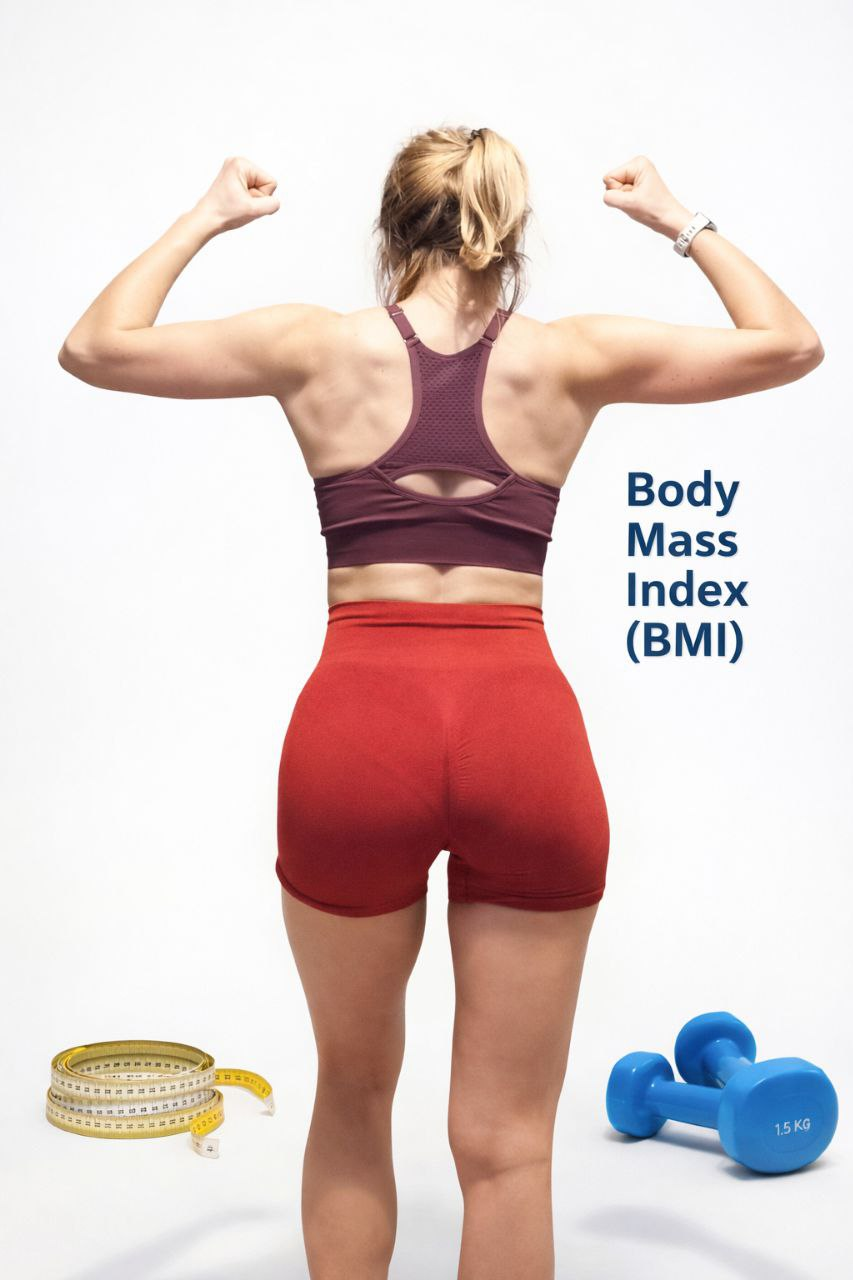
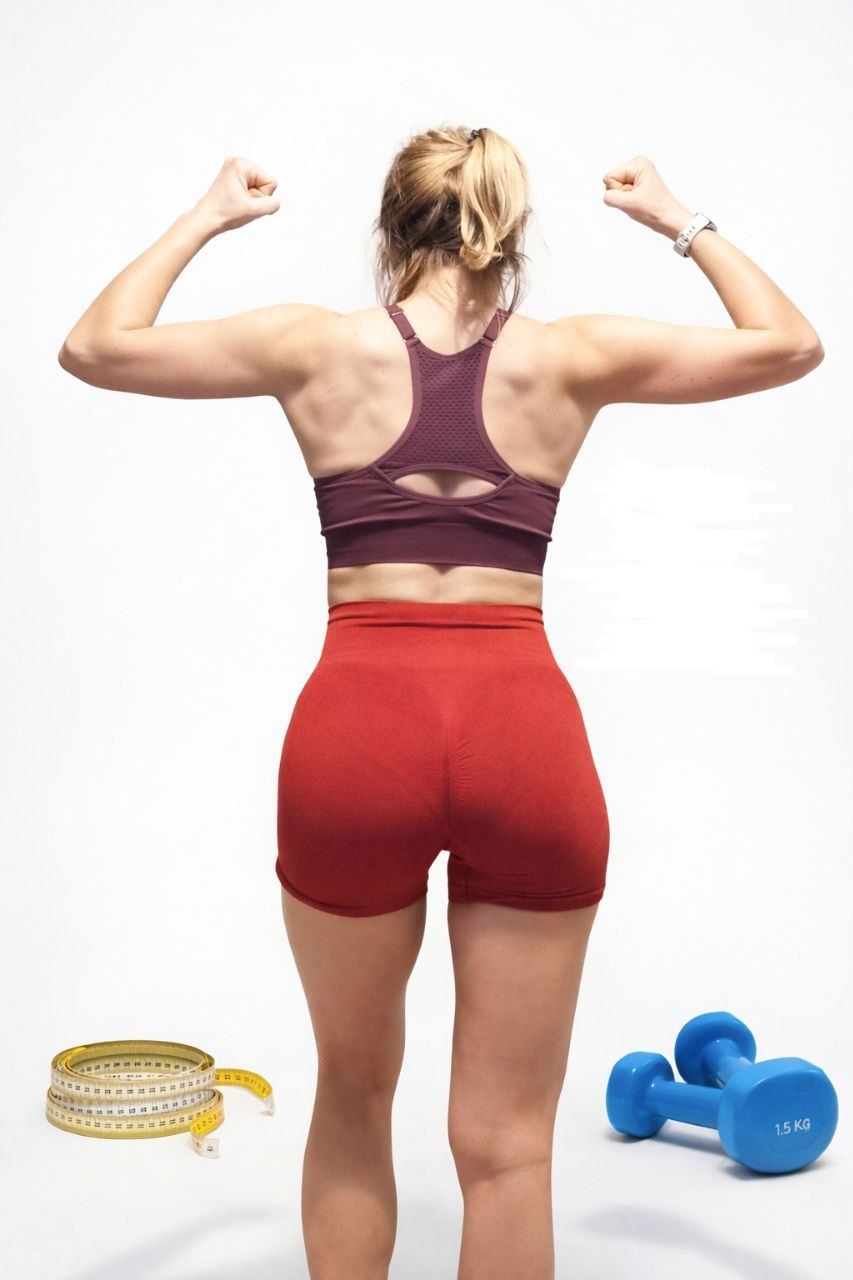
add main page draft

Changed region(s): [[0.7315, 0.3438, 0.8839, 0.5312]]

diff --git a/index.html b/index.html
@@ -4,48 +4,78 @@
     <meta charset="UTF-8" />
     <link rel="icon" type="image/svg+xml" href="/vite.svg" />
     <meta name="viewport" content="width=device-width, initial-scale=1.0" />
-    <title>my-vite-project</title>
+    <title>BodyMassIndex</title>
   </head>
   <body>
     <section class="hero">
       <div class="description-container">
-        <h1 class="title">BMI (Body Mass Index)</h1>
+      <h1 class="title">BMI (Body Mass Index)</h1>
         <div class="text-table">
           <p class="paragraph">
-            Body Mass Index (BMI) is an indicator that helps assess whether a
-            person’s weight corresponds to their height. It is used to determine
-            underweight, normal weight, or excess body weight in adults.
+           Body Mass Index (BMI) is a simple indicator that helps determine whether a person’s weight is appropriate for their height. It is often used as a first step in assessing overall body condition and potential health risks. 
           </p>
-          <div class="table-container">
-            <table class="table">
-              <thead>
-                <tr>
-                  <th>BMI</th>
-                  <th>Категория</th>
-                </tr>
-              </thead>
-              <tbody>
-                <tr class="red-row">
-                  <td>Меньше 18.5</td>
-                  <td>Недостаток веса</td>
-                </tr>
-                <tr class="green-row">
-                  <td>18.5 - 24.9</td>
-                  <td>Норма</td>
-                </tr>
-                <tr class="orange-row">
-                  <td>30 и больше</td>
-                  <td>Ожирение</td>
-                </tr>
-              </tbody>
-            </table>
-          </div>
+          <p class="paragraph">Calculating BMI takes only a few seconds, but it can indicate whether a person is underweight, within a normal range, or overweight.</p>
+          <p class="paragraph">An interesting fact is that BMI was developed in the 19th century and is still widely used today. However, it does not take muscle mass or fat distribution into account, so it is not a perfect measure. BMI is best viewed as a starting point and should be considered alongside lifestyle, physical activity, and overall well-being.</p>
         </div>
+        <div class="table-container">
+          <table class="table">
+            <thead>
+              <tr>
+                <th>BMI</th>
+                <th>Category</th>
+              </tr>
+            </thead>
+            <tbody>
+              <tr class="red-row">
+                <td>&lt 18.5</td>
+                <td>Underweight</td>
+              </tr>
+              <tr class="green-row">
+                <td>18.5 - 24.9</td>
+                <td>Norm</td>
+              </tr>
+              <tr class="orange-row">
+                <td>30 &gt</td>
+                <td>Obesity</td>
+              </tr>
+            </tbody>
+          </table>
+        </div>
+   </div>
         <div class="img-cont">
           <img src="./src/img/image.jpg" />
         </div>
       </div>
     </section>
+    <section class="calculator">
+      <form class="form-calculator">
+        <div class="form-field">
+          <label for="height" class="form-label">Height</label>
+          <div class="form-wrapper">
+            <input type="tel" class="form-input" id="user-height" name="user-height" placeholder="Enter your height in sm">
+          </div>
+        </div>
+
+        <div class="form-field">
+          <label for="weight" class="form-label">Weight</label>
+          <div class="form-wrapper">
+            <input type="tel" class="form-input" id="user-weight" name="user-weight" placeholder="Enter your weight in kg">
+          </div>
+        </div>
+        <button class="btn-calculator" type="submit">Calculation</button>
+      </form>
+    </section>
+    <!-- modal -->
+    <div class="modal-overlay hidden">
+  <div class="modal">
+    <button class="modal-close">×</button>
+
+    <h3 class="modal-title">Your result</h3>
+    <p class="modal-bmi"></p>
+    <p class="modal-text"></p>
+  </div>
+</div>
+
     <script type="module" src="/src/main.js"></script>
     <script type="module" src="./src/js/1-page.js"></script>
   </body>

diff --git a/src/style.css b/src/style.css
@@ -33,8 +33,13 @@ h1 {
 
 
 html{
-  background-color: rgb(252, 238, 222);
-}
+  /* background-color: rgb(252, 238, 222); */
+  background-image: linear-gradient(rgb(252, 238, 222), rgba(216, 217, 240, 0.7)),
+      url(../src/img/background.png);
+  background-position: center;
+  background-size:cover;
+    }
+
 
 .card {
   padding: 2em;
@@ -83,17 +88,14 @@ table {
 th,
 td {
   padding: 12px 16px;
+  /* text-align: center; */
 }
 thead th{
-  background-color: #f3f4f6;
+  background-color:#dbd7d0;
   font-weight: 600;
 }
 tbody tr {
   border-bottom: 1px solid #e5e7eb;
-}
-
-tbody tr:hover{
-  background-color: #f9fafb;
 }
 tbody tr.active{
   background-color: #e0f2fe;;
@@ -102,13 +104,22 @@ tbody tr.active{
   background-color: rgba(211, 52, 52, 0.459);
   font-weight: 600;
 }
+.red-row:hover{
+  background-color: rgba(211, 52, 52, 0.788)
+}
 .green-row{
   background-color: rgba(9, 143, 20, 0.541);
   font-weight: 600;
 }
+.green-row:hover{
+background-color: rgba(9, 143, 20, 0.781);
+}
 .orange-row{
   background-color: rgba(161, 48, 7, 0.644);
   font-weight: 600;
+}
+.orange-row:hover{
+  background-color: rgba(161, 48, 7, 0.842)
 }
 .table-container{
   display: flex;
@@ -159,12 +170,17 @@ tbody tr.active{
 
   .img-cont::before {
     background: radial-gradient(ellipse at center,
-       rgba(153, 151, 134, 0.829),
+      rgb(242 236 190 / 83%),
        transparent 100%);
       }
       
       .paragraph{
+  text-indent: 2em;
   font-size: 18px;
+  margin: 0;
+ }
+ .paragraph:last-child{
+margin-bottom: 76px;
  }
 
  .text-table{
@@ -177,11 +193,97 @@ img{
   margin-top: -20px;
 }
 
-/* .hero{
+.hero{
   display: flex;
   align-items: center;
-  gap:40px;
-} */
+  gap:80px;
+  margin-bottom: 80px;
+  justify-content: space-around;
+}
 .title{
-margin: 0 0 20px;
+margin: 0 0 40px;
+color:#614e4e;
+}
+
+
+
+               /* calculator */
+.calculator{
+  display: flex;
+  justify-content: center;
+}
+.form-calculator{
+border: 3px solid rgba(153, 151, 134, 0.829);
+border-radius: 8px;
+width: 408px;
+padding: 24px;
+}
+.form-input{
+  display: block;
+  background-color: transparent;
+  width: 100%;
+  height: 30px;
+  border-radius: 4px;
+  outline:transparent;
+  border: 1px solid rgba(46, 47, 66, 0.4);
+}
+.form-field{
+  margin-bottom: 8px;
+}
+.form-label{
+  margin-bottom: 4px;
+}
+.btn-calculator{
+  border-radius: 4px;
+  background-color: rgba(153, 151, 134, 0.829);
+}
+
+/* modal */
+.modal-overlay {
+  position: fixed;
+  inset: 0;
+  background: rgba(0, 0, 0, 0.4);
+  display: flex;
+  align-items: center;
+  justify-content: center;
+  z-index: 1000;
+}
+
+.modal {
+  position: relative;
+  background: #fff;
+  padding: 32px;
+  border-radius: 20px;
+  width: 90%;
+  max-width: 420px;
+  text-align: center;
+  box-shadow: 0 20px 40px rgba(0, 0, 0, 0.15);
+}
+
+.modal-title {
+  margin-bottom: 16px;
+}
+
+.modal-bmi {
+  font-size: 1.4rem;
+  font-weight: 600;
+  margin-bottom: 12px;
+}
+
+.modal-text {
+  color: #555;
+}
+
+.modal-close {
+  position: absolute;
+  top: 12px;
+  right: 12px;
+  background: none;
+  border: none;
+  font-size: 1.5rem;
+  cursor: pointer;
+}
+
+.hidden {
+  display: none;
 }

diff --git a/src/js/1-page.js b/src/js/1-page.js
@@ -1,0 +1,51 @@
+const inputHeight = document.querySelector("#user-height");
+const inputWeigth = document.querySelector("#user-weight");
+const btn = document.querySelector(".btn-calculator");
+const form = document.querySelector(".form-calculator");
+
+const modal = document.querySelector(".modal-overlay");
+const btnCloseModal = document.querySelector(".modal-close");
+const modalBMI = document.querySelector(".modal-bmi")
+const modalText = document.querySelector(".modal-text");
+
+
+form.addEventListener("submit", onSubmit);
+
+function onSubmit(event){
+    event.preventDefault();
+    const weight = Number(inputWeigth.value);
+    const heigthCM = Number(inputHeight.value);
+    const heightM = heigthCM / 100; 
+    const bmi = caltulateBMI(weight, heightM);
+    modalBMI.textContent = `BMI: ${bmi}`;
+   
+    let resultText = "";
+    if (bmi < 18.5) {
+        resultText = "Your BMI calculations indicate you are underweight. Detailed recommendations."
+    }
+    else if (bmi < 24.9) {
+        resultText = `
+  Your BMI calculations indicate you are underweight.
+  <br>
+  <a href="page-norm.html" class="modal-link">More information</a>
+`
+    }
+    else if (bmi < 30) {
+        resultText = "Your BMI indicates overweight. Consider adjusting nutrition and activity."
+    }
+    else {
+        "Your BMI indicates obesity. Professional advice is recommended."
+    }
+    modalText.innerHTML = resultText;
+    modal.classList.remove("hidden");
+    
+
+}
+
+btn.addEventListener("click", calculator);
+function caltulateBMI(kg, m) {
+    const summ = kg / (m * m)
+    return summ.toFixed(1);
+}
+console.log(calculator(57, 1.68));
+

diff --git a/page-norm.css b/page-norm.css
@@ -1,0 +1,24 @@
+
+/* html {
+ background-image: linear-gradient(rgb(252, 238, 222), rgba(216, 217, 240, 0.7)),
+     url(../src/img/background.png);
+background-position: center;
+background-size: cover;
+    } */
+html,
+body {
+    height: 100%;
+    margin: 0;
+}
+
+body.page-norm {
+    min-height: 100vh;
+
+    background-image:
+        linear-gradient(rgb(252, 238, 222), rgba(216, 217, 240, 0.7)),
+        url("/src/img/background.png");
+
+    background-position: center;
+    background-size: cover;
+    background-repeat: no-repeat;
+}

diff --git a/page-norm.html b/page-norm.html
@@ -1,0 +1,11 @@
+<!doctype html>
+<html lang="en">
+  <head>
+    <meta charset="UTF-8" />
+    <link rel="icon" type="image/svg+xml" href="/vite.svg" />
+    <meta name="viewport" content="width=device-width, initial-scale=1.0" />
+    <title>BodyMassIndex</title>
+    <link rel="stylesheet" href="./page-norm.css" />
+  </head>
+  <body class="page-norm"></body>
+</html>
